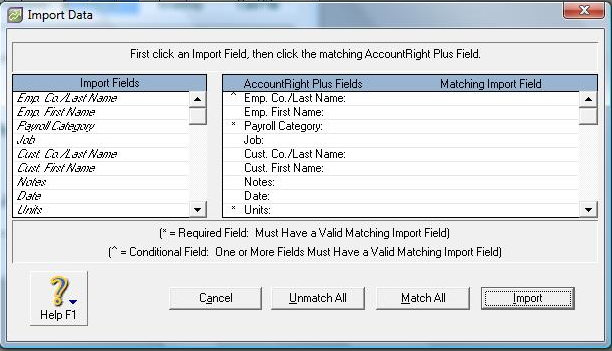
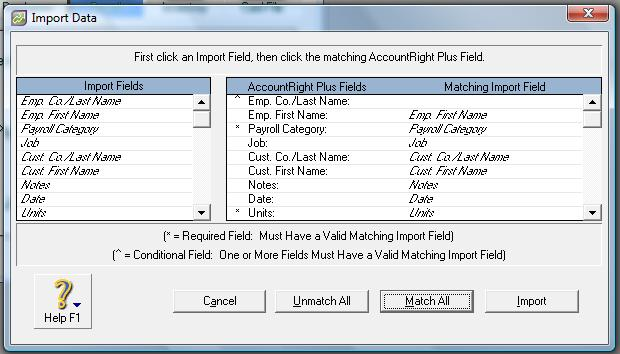
update myob instructions

diff --git a/_posts/timesheets/2013-02-09-exports.md b/_posts/timesheets/2013-02-09-exports.md
@@ -22,15 +22,22 @@ When you click the button, a file will be downloaded to your computer. [Click he
 
 Your staff in MYOB must have a **Card ID** which mates their PayAus [employee number](../../staff/team/#fields_available). An easy way to ensure this is to [import your staff from MYOB](../../staff/myob/).
 
-In MYOB, go to the `File` menu, choose `Import Data` (or something similar, depending on your MYOB version), then `Timesheets`.
+[This short video](http://www.youtube.com/watch?v=4gQPCU9STVg) shows the process of importing timesheets from PayAus into MYOB. For written instructions, read on...
+
+<iframe width="640" height="480" src="http://www.youtube.com/embed/-wSwK2J6jGk?rel=0" frameborder="0" allowfullscreen="true"> </iframe>
+<br />
+
+In MYOB, go to the `File` menu, choose `Import Data`, then `Timesheets`.
 
 ![Timesheet imports in MYOB](/img/timesheets/myob_menu.png)
 
-The file you are importing is tab delimited, includes headers, and identifies staff by `Emp. Card ID`, so ensure you have chosen these settings if prompted.
+Choose the appropriate configuration settings for the file you'll import: **Tab-delimited**, first record is **Header Record**, identify employee by **Emp. Card ID**.
 
 ![Import settings in MYOB](/img/timesheets/myob_settings.png)
 
-When prompted as to which fields to import, select **Match All**. Then, click **Import** to finish the process.
+When prompted as to which fields to import, select **Match All**. A list of fields will appear in the far right column, under *Matching Import File*. The first field should be *Emp. Co./Last Name*. Click on this field (in the far right column) and it should disapear. Finally, click the **Import** button.
+
+Deselecting the *Emp. Co./Last Name* field forces MYOB to match staff by the *Emp. Card ID* field, which is the field PayAus uses to match data to MYOB. 
 
 ![Matching fields in MYOB](/img/timesheets/myob_match.png)
 

diff --git a/_posts/notifications/2013-06-03-reports.md b/_posts/notifications/2013-06-03-reports.md
@@ -5,7 +5,7 @@ categories: ['notifications']
 sort: 3
 ---
 
-PayAus can send you a weekly report breaking down your rostered and actual costs for the week that was. The report is delivered to your inbox on the first day of the week. You can enable the report from the notifications page, by entering one or more emails separated by commas. Then, enable the report by clicking the green bar (you can click the bar again to disable it).
+PayAus can send you a weekly report breaking down your rostered and actual costs for the week that was. The report is delivered to your inbox on the first day of the week. You can enable the report from the [notifications](../intro/) page, by entering one or more emails separated by commas. Then, enable the report by clicking the green bar (you can click the bar again to disable it).
 
 ![Weekly report configuration](/img/notifications/weekly_report_config.png)
 
